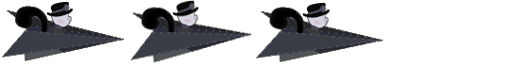
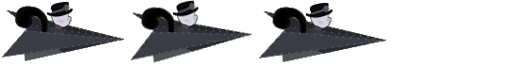
basic motion

Changed region(s): [[0.5, 0.0312, 0.75, 0.8438], [0.5, 0.6562, 0.625, 0.9688], [0.5938, 0.5312, 0.625, 0.5625]]

diff --git a/hazel.cpp b/hazel.cpp
@@ -9,17 +9,17 @@
 
 void HazelPrefs::rewrite() const
 {
-	if( !bank )
-	{
-		printf("Prefs rewrite with no bank.\n");
-		exit(0);
-	}
-	bank->writePersistentSerializableWithKey(this, key.c_str());
+    if( !bank )
+    {
+        printf("Prefs rewrite with no bank.\n");
+        exit(0);
+    }
+    bank->writePersistentSerializableWithKey(this, key.c_str());
 }
 
 Node* HazelWorld::getNode(const string& name)
 {
-	return World::getNode(name);
+    return World::getNode(name);
 }
 
 void HazelWorld::initWorld()
@@ -29,6 +29,7 @@ void HazelWorld::initWorld()
 
 
 Hazel::Hazel()
+	: lastTime(0.0)
 {
 
 }
@@ -40,12 +41,12 @@ Hazel::~Hazel()
 
 void Hazel::setBank(Bank* inBank)
 {
-	world.bank = inBank;
+    world.bank = inBank;
 }
 
 void Hazel::setPlayer(Player* inPlayer)
 {
-	world.initSound(inPlayer);
+    world.initSound(inPlayer);
 }
 
 void Hazel::init()
@@ -60,50 +61,61 @@ void Hazel::init()
     glBlendFunc(GL_SRC_ALPHA, GL_ONE_MINUS_SRC_ALPHA);
 
     world.initWithPath("hazel.world");
+    world.init();
     world.initWorld();
+
+    primaryCraft = new Craft;
+    primaryCraft->actor = world.hazel;
+    primaryCraft->position.set(100, 300);
+
+    objects.push_back(primaryCraft);
+
 }
 
 void Hazel::destroy()
 {
-	delete renderer;
+    delete renderer;
 }
 
 bool Hazel::mouseDown(const Vec2& C)
 {
-	return world.mouseDown(C);
+    return world.mouseDown(C);
 }
 
 void Hazel::mouseDragged(const Vec2& C)
-{	
-	world.mouseDragged(C);
+{    
+    world.mouseDragged(C);
 }
 
 void Hazel::mouseUp(const Vec2& C)
 {
-	world.mouseUp(C);
+    world.mouseUp(C);
 }
 
 bool Hazel::touchDown(unsigned int index, const Vec2& C)
 {
-	return false;
+    return false;
 }
 
 void Hazel::touchDragged(unsigned int index, const Vec2& C)
 {
-	
+    
 }
 
 void Hazel::touchUp(unsigned int index, const Vec2& C)
 {
-	
+    
 }
 
 void Hazel::draw() const
 {
-	glClearColor(0.1, 0.05, 0.04, 1);
-	glClear(GL_COLOR_BUFFER_BIT | GL_DEPTH_BUFFER_BIT);
+    glClearColor(0.1, 0.05, 0.04, 1);
+    glClear(GL_COLOR_BUFFER_BIT | GL_DEPTH_BUFFER_BIT);
 
-	world.draw();
+    for(vector<Object*>::const_iterator itr = objects.begin(); itr != objects.end(); itr++)
+		(*itr)->draw();
+
+    world.draw();
 }
 
 void Hazel::keyboard(unsigned char inkey)
@@ -111,17 +123,67 @@ void Hazel::keyboard(unsigned char inkey)
 
 }
 
+void Hazel::keyDown(unsigned char inkey)
+{
+    keySet.insert(inkey);
+}
+
+void Hazel::keyUp(unsigned char inkey)
+{
+    keySet.erase(inkey);
+}
+
 void Hazel::reshape(int width, int height)
 {
-	renderer->projection = orthographic(0, width, 0, height, -1, 1);
+    renderer->projection = orthographic(0, width, 0, height, -1, 1);
 }
 
 void Hazel::step(double t)
 {
-	
+    if( t-lastTime > 1.0 / 35.0 )
+    {
+        for(vector<Object*>::iterator itr = objects.begin(); itr != objects.end(); itr++)
+            (*itr)->step();
+
+        if( keySet.find('d') != keySet.end() )
+        {
+            primaryCraft->velocity += Vec2(0.3, 0.0);
+            primaryCraft->actor->frame = 2;
+        }
+        else if( keySet.find('a') != keySet.end() )
+       	{
+            primaryCraft->velocity -= Vec2(0.2, 0.0);
+            primaryCraft->actor->frame = 1;
+        }
+       	else
+       	{
+            primaryCraft->actor->frame = 0;
+        }
+
+
+        lastTime = t;
+    }
 }
 
 
+Object::Object()
+	: actor(NULL)
+{
+}
 
+Object::~Object() {}
 
+void Object::step()
+{
+    if( velocity.y > -0.4 )
+        velocity-= Vec2(0.0, 0.02);
+
+    position += velocity;
+}
+
+void Object::draw() const
+{
+	if( actor )
+    	actor->position = position;
+}
 

diff --git a/hazel.h b/hazel.h
@@ -48,6 +48,27 @@ friend class Hazel;
 	void initWorld();
 };
 
+class Object
+{
+public:
+	Object();
+	virtual ~Object();
+
+	Actor* actor;
+
+	Vec2 position;
+	Vec2 velocity;
+
+	void step();
+	void draw() const;
+};
+
+class Craft
+	: public Object
+{
+
+};
+
 class Hazel : public App
 {
 friend class HazelWorld;
@@ -55,6 +76,11 @@ friend class HazelWorld;
 private:
 	HazelWorld world;
 	RendererGL2* renderer;
+	double lastTime;
+
+	vector<Object*> objects;
+	set<unsigned char> keySet;
+	Craft* primaryCraft;
 
 public:
 	Hazel();
@@ -69,6 +95,9 @@ public:
 	virtual void draw() const;
 	
 	virtual void keyboard(unsigned char inkey);
+	virtual void keyDown(unsigned char inkey);
+    virtual void keyUp(unsigned char inkey);
+
 	virtual void reshape(int width, int height);
     
 	virtual bool mouseDown(const Vec2& C);
